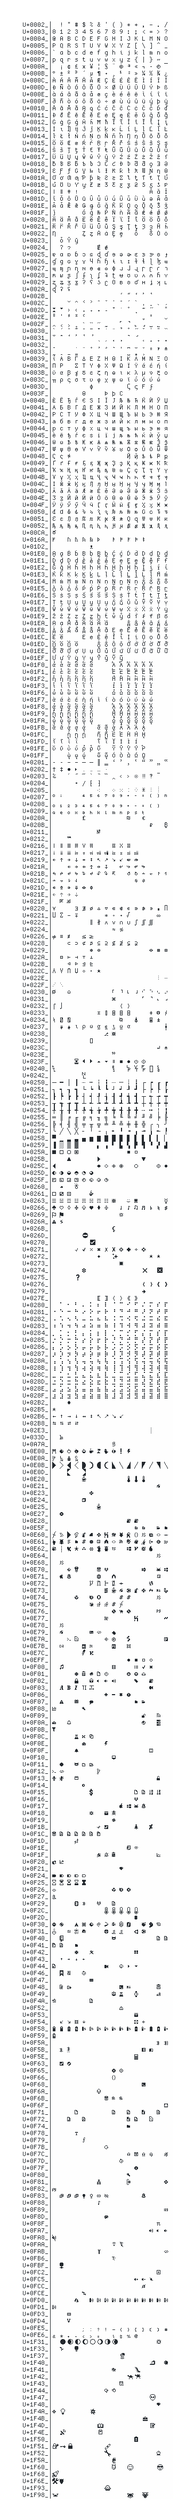
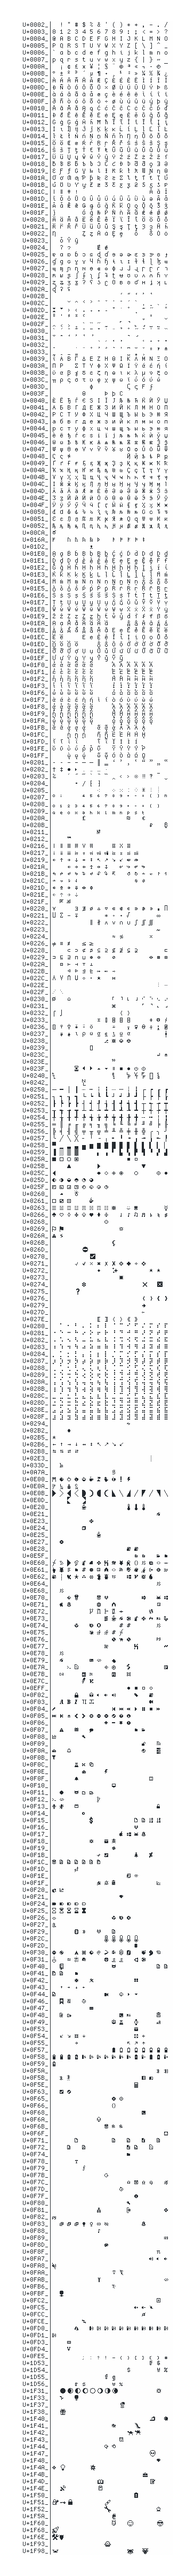
v.1.21.0 The BQN update

diff --git a/CHANGELOG.md b/CHANGELOG.md
@@ -5,6 +5,45 @@ All notable changes to this project will be documented in this file.
 The format is based on [Keep a Changelog], and this project adheres to
 [Semantic Versioning].
 
+## [1.21.0]
+
+The BQN update, brought to you by [dariof4](https://github.com/dariof4)!
+
+### Added
+
+- ‿ (U+203F UNDERTIE)
+- ∾ (U+223E INVERTED LAZY S)
+- ≍ (U+224D EQUIVALENT TO)
+- ⊏ (U+228F SQUARE IMAGE OF)
+- ⊐ (U+2290 SQUARE ORIGINAL OF)
+- ⊑ (U+2291 SQUARE IMAGE OF OR EQUAL TO)
+- ⊒ (U+2292 SQUARE ORIGINAL OF OR EQUAL TO)
+- ⊓ (U+2293 SQUARE CAP)
+- ⊔ (U+2294 SQUARE CUP)
+- ⊘ (U+2298 CIRCLED DIVISION SLASH)
+- ⊶ (U+22B6 ORIGINAL OF)
+- ⊷ (U+22B7 IMAGE OF)
+- ⊸ (U+22B8 MULTIMAP)
+- ⋈ (U+22C8 BOWTIE)
+- ⎉ (U+2389 CIRCLED HORIZONTAL BAR WITH NOTCH)
+- ⎊ (U+238A CIRCLED TRIANGLE DOWN)
+- ␏ (U+240F SYMBOL FOR SHIFT IN)
+- ▔ (U+2594 UPPER ONE EIGHTH BLOCK)
+- ⚇ (U+2687 WHITE CIRCLE WITH TWO DOTS)
+- ⟜ (U+27DC LEFT MULTIMAP)
+- ⥊ (U+294A LEFT BARB UP RIGHT BARB DOWN HARPOON)
+- 𝔽 (U+1D53D MATHEMATICAL DOUBLE-STRUCK CAPITAL F)
+- 𝔾 (U+1D53E MATHEMATICAL DOUBLE-STRUCK CAPITAL G)
+- 𝕊 (U+1D54A MATHEMATICAL DOUBLE-STRUCK CAPITAL S)
+- 𝕎 (U+1D54E MATHEMATICAL DOUBLE-STRUCK CAPITAL W)
+- 𝕏 (U+1D54F MATHEMATICAL DOUBLE-STRUCK CAPITAL X)
+- 𝕗 (U+1D557 MATHEMATICAL DOUBLE-STRUCK SMALL F)
+- 𝕘 (U+1D558 MATHEMATICAL DOUBLE-STRUCK SMALL G)
+- 𝕣 (U+1D563 MATHEMATICAL DOUBLE-STRUCK SMALL R)
+- 𝕤 (U+1D564 MATHEMATICAL DOUBLE-STRUCK SMALL S)
+- 𝕨 (U+1D568 MATHEMATICAL DOUBLE-STRUCK SMALL W)
+- 𝕩 (U+1D569 MATHEMATICAL DOUBLE-STRUCK SMALL X)
+
 ## [1.20.1]
 
 ### Added
@@ -2179,7 +2218,8 @@ Still broken on Windows.
 
 [keep a changelog]: https://keepachangelog.com/en/1.0.0/
 [semantic versioning]: https://semver.org/spec/v2.0.0.html
-[unreleased]: https://github.com/slavfox/Cozette/compare/v.1.20.1...HEAD
+[unreleased]: https://github.com/slavfox/Cozette/compare/v.1.21.0...HEAD
+[1.20.1]: https://github.com/slavfox/Cozette/compare/v.1.20.1...v.1.21.0
 [1.20.1]: https://github.com/slavfox/Cozette/compare/v.1.20.0...v.1.20.1
 [1.20.0]: https://github.com/slavfox/Cozette/compare/v.1.19.3...v.1.20.0
 [1.19.3]: https://github.com/slavfox/Cozette/compare/v.1.19.2-hidpi2...v.1.19.3

diff --git a/README.md b/README.md
@@ -176,6 +176,7 @@ implemented:
 - [x] Braille
 - [x] Cyrillic!
 - [x] APL Glyphs (based on the list from [APL386](https://abrudz.github.io/APL386/))!
+- [x] [BQN](https://mlochbaum.github.io/BQN/fonts.html) Glyphs!
 - [ ] Nerdfonts:
   - [x] nf-pom-\*
   - [x] nf-seti-\*
@@ -249,7 +250,7 @@ will output the changelog between your local version and the last tag.
 
 Massive thanks to [ym1234] for helping me figure out how to make the font tables behave nicely.
 
-Thanks to [autumn], [cpkio], [yoshiyoshyosh], and [klinegareth] for contributing characters!
+Thanks to [autumn], [cpkio], [yoshiyoshyosh], [klinegareth], and [dariof4] for contributing characters!
 
 # License & Acknowledgements
 
@@ -283,5 +284,6 @@ Cozette's builds use [bdfscale](https://github.com/philj56/bdfscale) by [philj56
 [cpkio]: https://github.com/cpkio
 [yoshiyoshyosh]: https://github.com/yoshiyoshyosh
 [klinegareth]: https://github.com/klinegareth
+[dariof4]: https://github.com/dariof4
 [laxul]: https://github.com/laxul
 [port]: https://cgit.freebsd.org/ports/tree/x11-fonts/cozette
